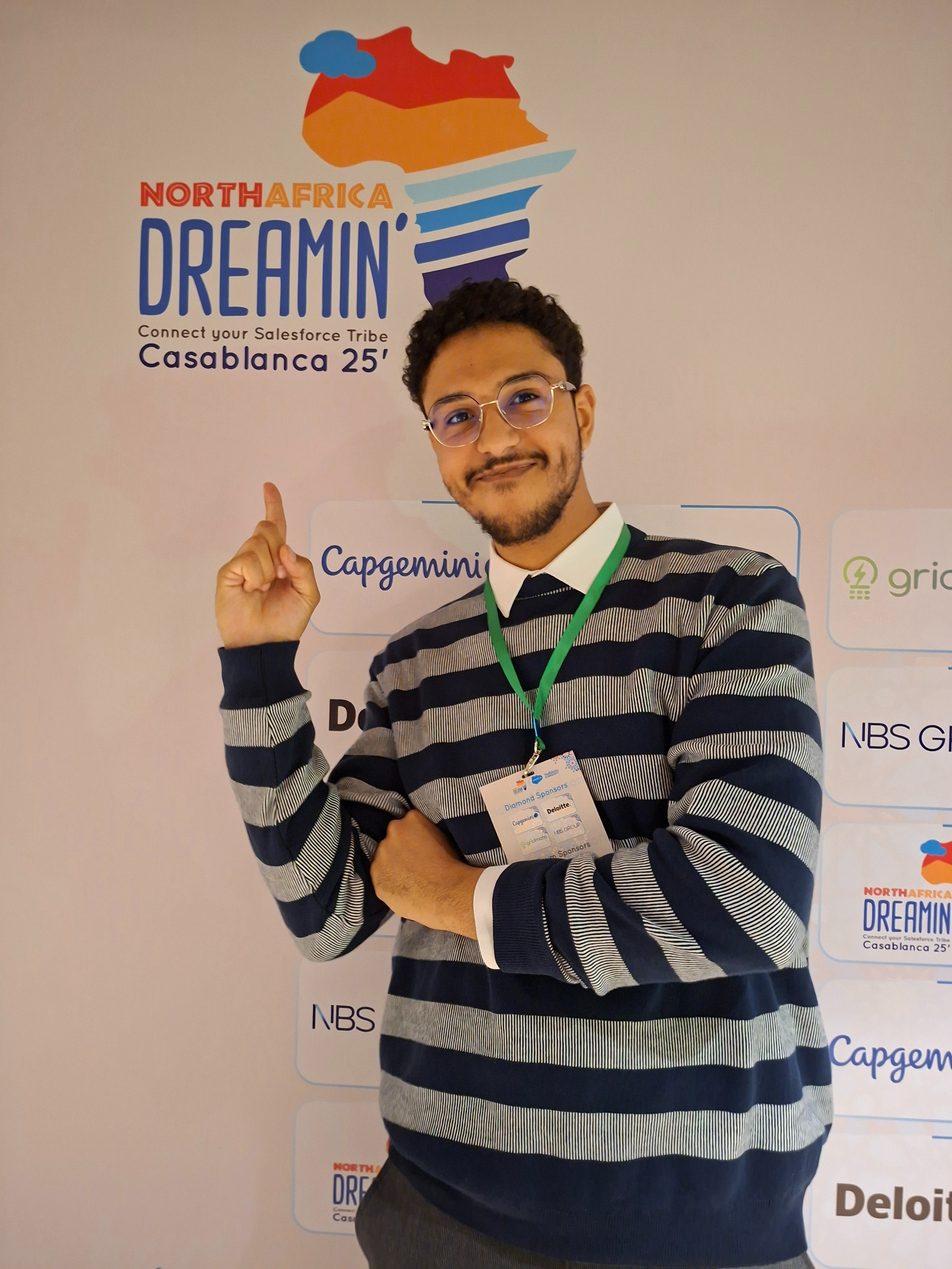
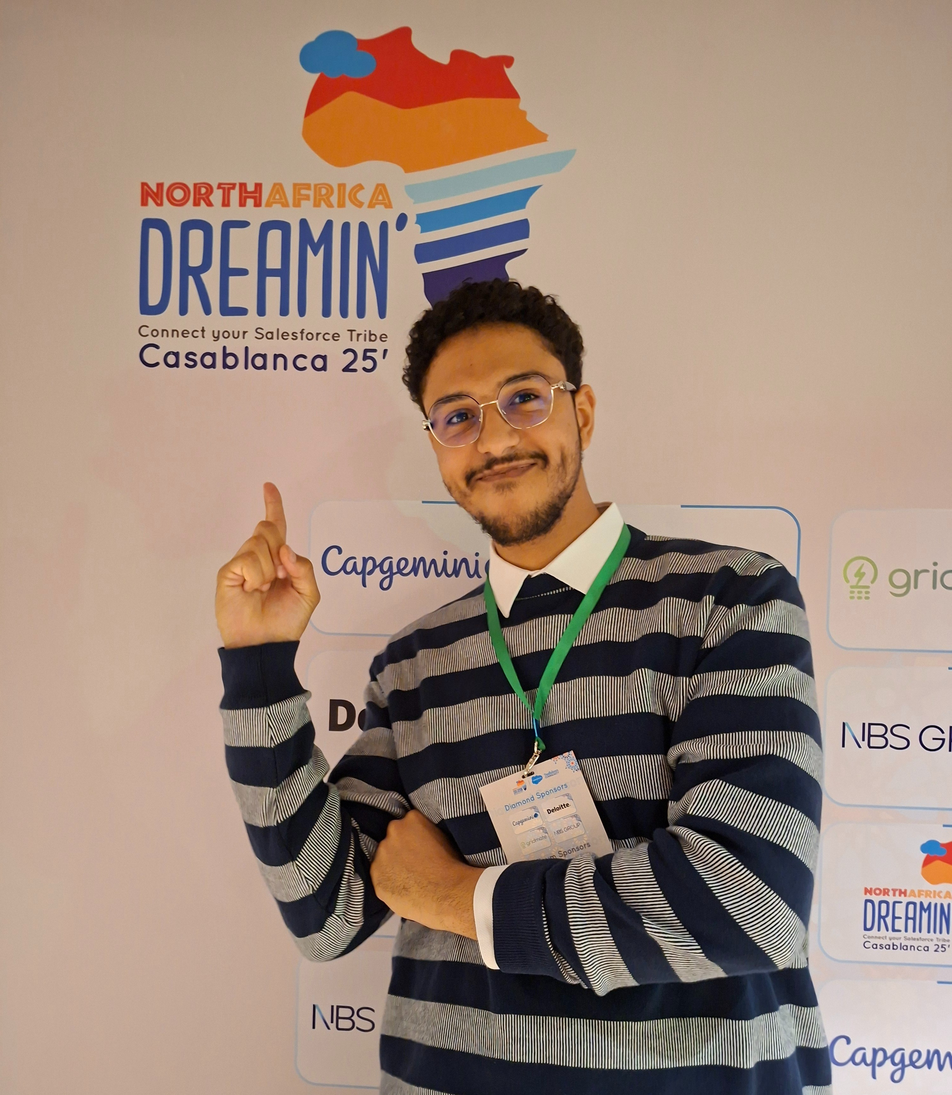
feat: add imagePosition prop to MediaCarousel for customizable image alignment

diff --git a/src/components/MediaCarousel.tsx b/src/components/MediaCarousel.tsx
@@ -12,60 +12,44 @@ import {
 interface MediaCarouselProps {
   media: string[];
   alt: string;
+  imagePosition?: string;
 }
 
-export default function MediaCarousel({ media, alt }: MediaCarouselProps) {
+export default function MediaCarousel({ media, alt, imagePosition = "object-center" }: MediaCarouselProps) {
   const [currentIndex, setCurrentIndex] = useState(0);
   const [isFullscreen, setIsFullscreen] = useState(false);
 
-  // Helper to check if a file is a video based on its extension
   const isVideo = (src: string) => /\.(mp4|webm|ogg)$/i.test(src);
-
-  const nextMedia = (e?: React.MouseEvent) => {
-    if (e) e.stopPropagation();
-    setCurrentIndex((prev) => (prev + 1) % media.length);
-  };
-
-  const prevMedia = (e?: React.MouseEvent) => {
-    if (e) e.stopPropagation();
-    setCurrentIndex((prev) => (prev - 1 + media.length) % media.length);
-  };
-
+  const nextMedia = (e?: React.MouseEvent) => { if (e) e.stopPropagation(); setCurrentIndex((prev) => (prev + 1) % media.length); };
+  const prevMedia = (e?: React.MouseEvent) => { if (e) e.stopPropagation(); setCurrentIndex((prev) => (prev - 1 + media.length) % media.length); };
   const openFullscreen = () => setIsFullscreen(true);
   const closeFullscreen = () => setIsFullscreen(false);
 
-  // Function to render either an Image or a Video
   const renderContent = (src: string, isFull: boolean) => {
     if (isVideo(src)) {
       return (
         <video
           key={src}
-          className={`w-full h-full ${isFull ? "object-contain" : "object-cover pointer-events-none"}`}
+          src={src}
+          className={`w-full h-full ${isFull ? 'object-contain' : `object-cover pointer-events-none ${imagePosition}`}`}
           controls={isFull}
-          autoPlay={true}
+          autoPlay
           muted={!isFull}
-          loop={true}
+          loop
           playsInline
-        >
-          <source src={src} type="video/mp4" />
-          Your browser does not support the video tag.
-        </video>
+        />
       );
     }
-
+    
     return (
-      <Image
+      <Image 
         key={src}
-        src={src}
-        alt={alt}
-        fill
-        sizes={
-          isFull
-            ? "100vw"
-            : "(max-width: 768px) 100vw, (max-width: 1200px) 50vw, 33vw"
-        }
-        priority={currentIndex === 0 && !isFull}
-        className={`transition-all duration-500 ${isFull ? "object-contain" : "object-cover group-hover/carousel:scale-105"}`}
+        src={src} 
+        alt={alt} 
+        fill 
+        sizes={isFull ? "100vw" : "(max-width: 768px) 100vw, (max-width: 1200px) 50vw, 33vw"}
+        priority={currentIndex === 0 && !isFull} 
+        className={`transition-all duration-500 ${isFull ? 'object-contain' : `object-cover group-hover/carousel:scale-105 ${imagePosition}`}`} 
       />
     );
   };

diff --git a/src/app/[lang]/hobbies/page.tsx b/src/app/[lang]/hobbies/page.tsx
@@ -55,6 +55,7 @@ export default async function HobbiesPage(props: {
                 "https://res.cloudinary.com/dpwzye1tt/video/upload/gitex-3_ym9sll.mp4",
               ]}
               alt="GITEX Africa"
+              imagePosition="object-top"
             />
             <div className="p-8 flex-1">
               <span className="text-xs font-bold text-blue-600 uppercase tracking-wider mb-2 block">
@@ -108,6 +109,7 @@ export default async function HobbiesPage(props: {
             <MediaCarousel
               media={["/ampc-1.jpg", "/ampc-2.jpg", "/ampc-3.jpg"]}
               alt="AMPC Competition Meknes"
+              imagePosition="object-top"
             />
             <div className="p-8 flex-1">
               <span className="text-xs font-bold text-blue-600 uppercase tracking-wider mb-2 block">
